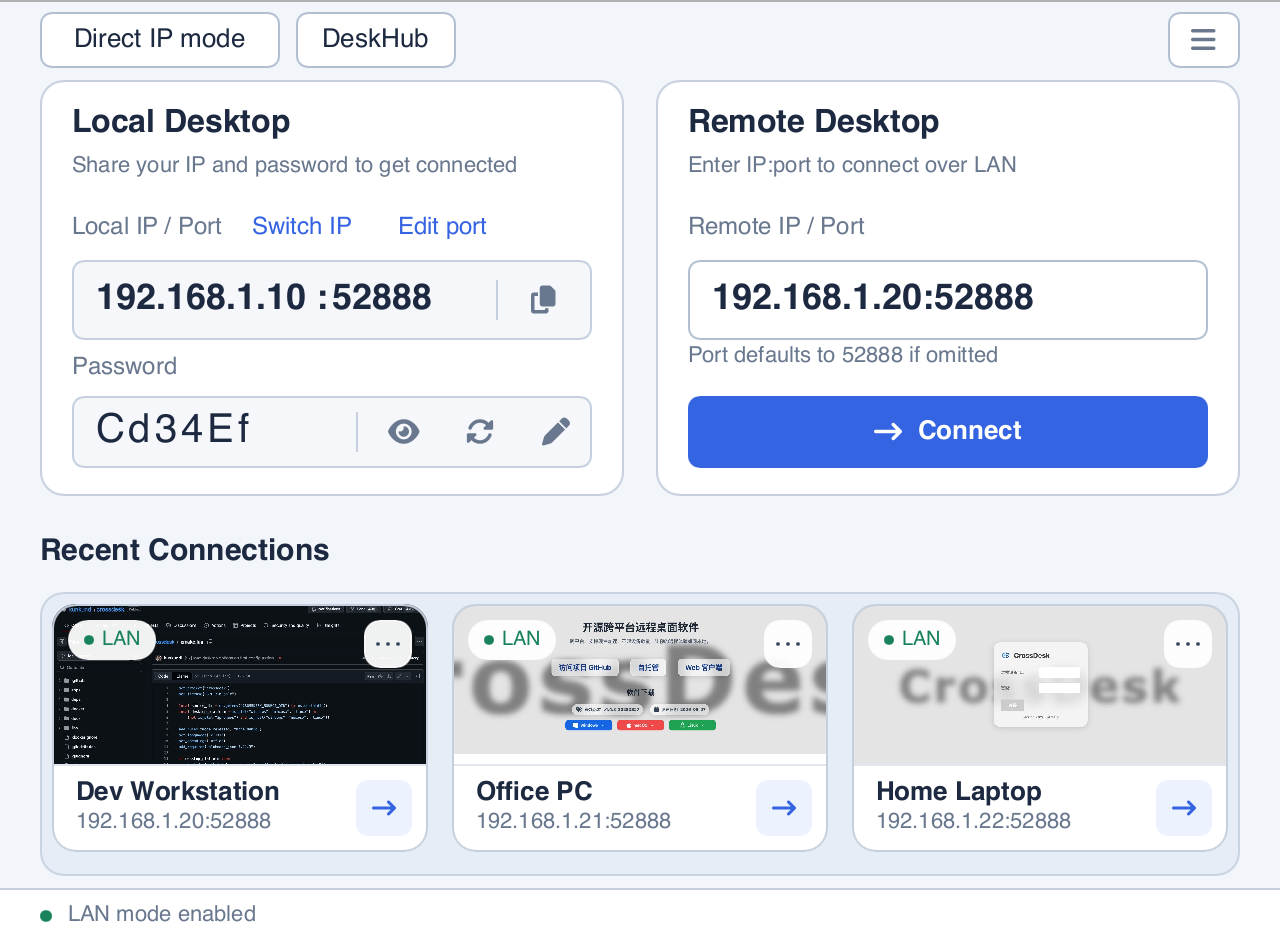
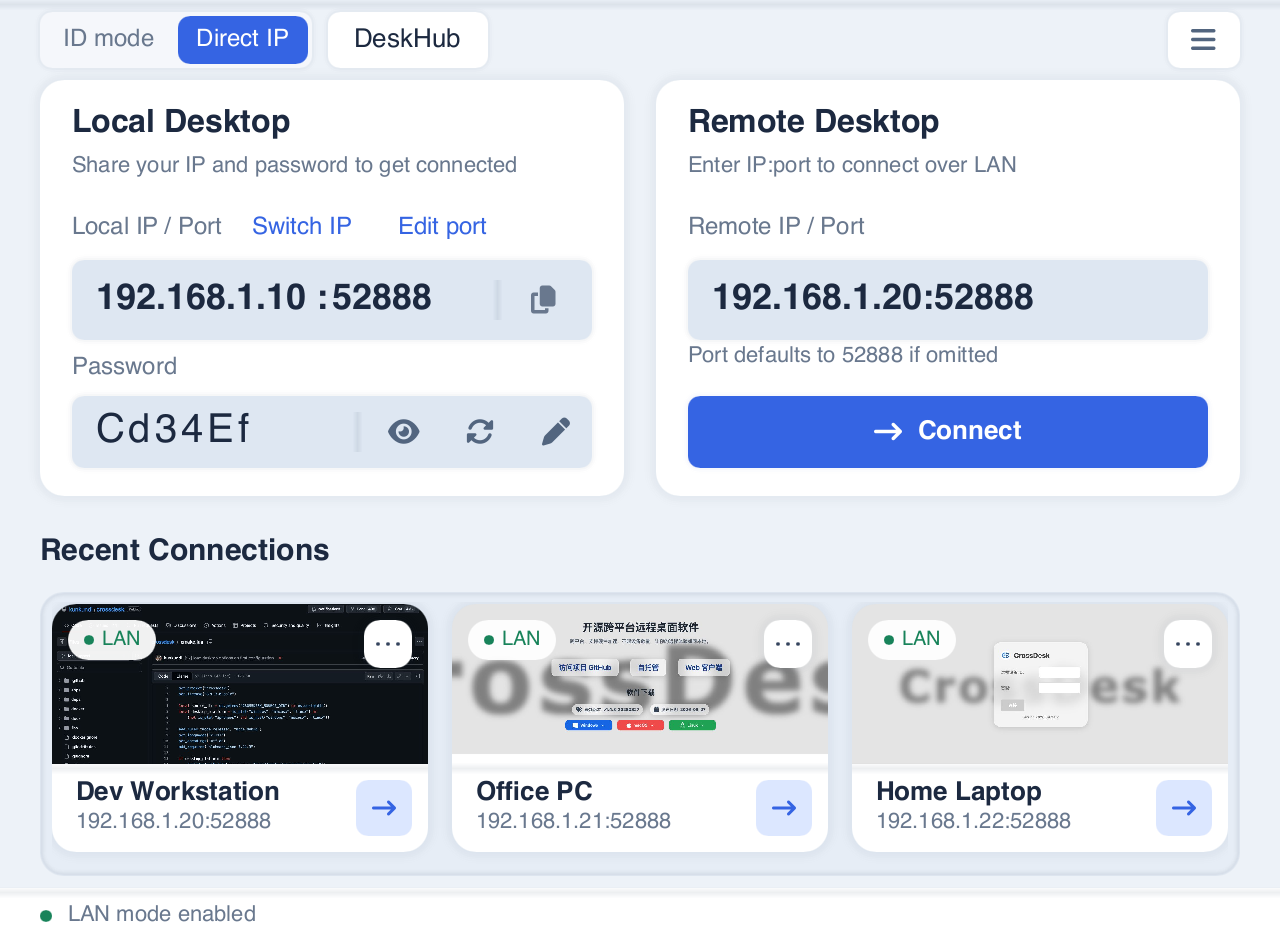
[docs] update README screenshots for refreshed desktop UI

diff --git a/docs/images/README.md b/docs/images/README.md
@@ -4,17 +4,20 @@
 
 ## 来源 / Sources
 
+- **2026-10-26** 从 `e551e04e` 的实际 Slint 组件重新生成中英文 README 引用的 6 张截图：ID 连接主窗口、IP 直连主窗口与六设备桌面墙，展示更新后的柔和阴影、输入框与按钮配色。沿用原有演示数据、图片尺寸及 2× 软件渲染。
 - **2026-10-25** 删除“启用中继服务”开关，并将自托管配置拆分为普通标签、“编辑”按钮和开关后，从当前工作区组件重新生成常规设置与网络设置共 4 张中英文截图。
 - **2026-10-25** 从 `ae6f81e8` 的实际 Slint 组件重新生成 16 张中英文截图：更新主窗口、常规设置、桌面墙设置、自托管及关于共 10 张，新增 IP 直连主界面、记住密码弹窗和网络设置共 6 张。使用 Slint 1.17.1、macOS arm64 和 2× 软件渲染。
 - 捕获程序在**工程外临时目录**中复用现有 [`slint_ui_smoke_test`](../../apps/desktop/tests/slint_ui_smoke_test.cpp) 的截图辅助函数，并注入演示界面状态；没有启动应用运行时、打开监听端口或建立远控会话。没有修改产品组件或工程内测试，临时源码、可执行程序与 PPM 均位于工程外。
 - 主窗口展示 ID / IP 模式切换、桌面墙入口和各自的近期设备；IP 模式展示地址编辑、六位密码和默认端口 52888，网络设置展示“启用 IP 直连”及关闭说明。IP 近期设备的 `LAN` 标记表示记录类型，不代表在线探测结果。
 - 本机 ID `123 456 789`、密码 `Ab12Cd` / `Cd34Ef`、地址 `192.168.1.10` 与 `192.168.1.20–22`、设备名称和连接状态均为演示数据，不是真实设备凭据。IP 列表还包含 `192.168.2.10` 作为切换示例。截图中勾选的“记住密码”是演示选择，配置状态不代表全部运行时默认值。
-- 桌面墙网格、放大视图和会话画面设置共 6 张继续沿用 **2026-10-19** 从 `1ef372d2` 渲染的截图。桌面墙展示六台演示设备，主窗口展示三台；本轮没有重新采集这些页面。
+- 桌面墙放大视图和会话画面设置共 4 张继续沿用 **2026-10-19** 从 `1ef372d2` 渲染的截图。桌面墙展示六台演示设备，主窗口展示三台。
 - “关于”中的 `v1.5.2` 和“已是最新版本”是捕获工具的示例值，不代表当前发布版本或实际在线检查结果。会话图使用公开页面作为远端画面，展示真实工具栏与画面设置菜单；隐私屏按钮处于关闭状态。
 - 缩略图沿用既有公开页面截图：`fixtures/source.png` 来自 [CrossDesk Xmake 源码页](https://github.com/kunkundi/crossdesk/blob/ios-support/xmake.lua)，`fixtures/website.png` 来自 [CrossDesk 官网](https://www.crossdesk.cn/)，两者采集于 2026-09-07。它们只用于展示预览效果，不代表这些页面正在对应设备上运行，页面中的版本信息也不代表最新发布。
 - `web-client.png` 保留 **2026-09-25** 从 [Web 客户端](https://web.crossdesk.cn/) 采集的 1280 × 720 连接首页，页面版本为 `2026.09.24.2`，ID 与密码为空。本次未重新采集 Web 页面；桌面设备预览继续复用这张图片。
 
-On **2026-10-25**, 16 images were rendered from the actual Slint components at `ae6f81e8`: ten refreshed images (main window, General settings, DeskHub settings, self-hosting, and About) and six additions (Direct IP mode, its password dialog, and Network settings), in Chinese and English. Later that day, the four General and Network settings images were refreshed from the working tree after removing Enable TURN Service and separating Self-Hosted Config into a label, Edit button, and switch. The capture-only program reused the existing helper functions in an external temporary directory, using Slint 1.17.1 on macOS arm64 at 2× scale. Capture did not modify product components or repository tests, and no listeners or remote sessions were opened. IDs, IPs, passwords, device records, connection states, and update results are illustrative; `LAN` labels indicate record type, not an online check. The checked Remember password box is a demonstration choice. The other six desktop screenshots remain from 2026-10-19, public-page fixtures from 2026-09-07, and the Web image from 2026-09-25. Native mobile screenshots are not included.
+On **2026-10-26**, the six images referenced by the Chinese and English READMEs (ID mode, Direct IP mode, and the six-device DeskHub grid) were refreshed from the actual Slint components at `e551e04e`, showing the updated soft shadows and input and button colors. The existing demonstration data, image dimensions, and 2× software rendering were retained.
+
+On **2026-10-25**, 16 images were rendered from the actual Slint components at `ae6f81e8`: ten refreshed images (main window, General settings, DeskHub settings, self-hosting, and About) and six additions (Direct IP mode, its password dialog, and Network settings), in Chinese and English. Later that day, the four General and Network settings images were refreshed from the working tree after removing Enable TURN Service and separating Self-Hosted Config into a label, Edit button, and switch. The capture-only program reused the existing helper functions in an external temporary directory, using Slint 1.17.1 on macOS arm64 at 2× scale. Capture did not modify product components or repository tests, and no listeners or remote sessions were opened. IDs, IPs, passwords, device records, connection states, and update results are illustrative; `LAN` labels indicate record type, not an online check. The checked Remember password box is a demonstration choice. The four DeskHub enlarged-view and session-video images remain from 2026-10-19, public-page fixtures from 2026-09-07, and the Web image from 2026-09-25. Native mobile screenshots are not included.
 
 ## 文件 / Files
 
@@ -102,6 +105,17 @@ new = '''      if (options.page == "settings-deskhub") window->set_settings_tab(
 ''' + old
 assert source.count(old) == 1
 source = source.replace(old,new)
+# Preserve the six-device DeskHub composition used in the README.
+old = 'if (connections.size() == 3 && options.page != "main-recent-overflow" &&'
+new = 'if (connections.size() == 3 && !options.page.starts_with("gallery") && options.page != "main-recent-overflow" &&'
+assert source.count(old) == 1
+source = source.replace(old,new)
+old = '    window->set_gallery_mode(true);'
+assert source.count(old) == 1
+source = source.replace(old,old + '\n    window->set_gallery_tile_width(300);')
+old = '        698.0f;'
+assert source.count(old) == 1
+source = source.replace(old,'        options.page == "gallery" ? 500.0f : 698.0f;')
 source += '''} // namespace
 int main() {
   const auto options = LoadCaptureOptions();
@@ -142,8 +156,10 @@ xcrun clang++ -std=c++20 \
 for locale in zh en; do
   language=0
   if [ "$locale" = en ]; then language=1; fi
-  for page in main lan lan-password settings settings-network settings-deskhub self-hosted about; do
-    snapshot="$capture_dir/desktop-$page-$locale.ppm"
+  for page in main lan gallery; do
+    image_page="$page"
+    if [ "$page" = gallery ]; then image_page=deskhub; fi
+    snapshot="$capture_dir/desktop-$image_page-$locale.ppm"
     SLINT_BACKEND=winit-software SLINT_SCALE_FACTOR=2 \
       CROSSDESK_UI_CAPTURE=1 \
       CROSSDESK_UI_CAPTURE_DEMO_ASSETS="$PWD/docs/images" \
@@ -152,7 +168,7 @@ for locale in zh en; do
       CROSSDESK_UI_CAPTURE_SNAPSHOT="$snapshot" \
       "$capture_dir/readme_capture"
     sips -s format png "$snapshot" \
-      --out "$capture_dir/desktop-$page-$locale.png"
+      --out "$capture_dir/desktop-$image_page-$locale.png"
   done
 done
 ```
@@ -161,6 +177,6 @@ done
 
 ### 其他页面
 
-会话图可用相同程序的 `stream-video-settings` 页面捕获。六设备桌面墙需要先调整**临时** `readme_capture.cpp` 的演示场景：在 `ConfigureDocumentationDemo` 的三设备限制中排除 `gallery` 开头的页面；在开启 gallery 模式后设置 `gallery_tile_width` 为 300；将 `gallery` 网格窗口的内容高度设为 500，`gallery-focus` 保持 698（macOS）。重新编译后，分别捕获 `gallery` / `gallery-focus` 并命名为 `desktop-deskhub-*` / `desktop-deskhub-focus-*`。这些调整只影响示例数据和窗口尺寸，不改变实际组件。
+使用指南中的截图可用相同程序捕获，将循环中的页面列表换为 `lan-password settings settings-network settings-deskhub self-hosted about stream-video-settings`。桌面墙放大视图使用 `gallery-focus` 页面，输出文件命名为 `desktop-deskhub-focus-*`。生成器已为桌面墙保留六台演示设备、300px 磁贴宽度和 500px 网格窗口内容高度；放大视图保持 698px（macOS）。这些设置仅影响临时捕获程序的示例数据和窗口尺寸。
 
 若更新 Web 图片，应打开 Web 客户端，等待表单与底部版本号加载完成，保持 ID 与密码为空，再截取页面视口；替换后也需重新生成桌面图以同步缩略图。
